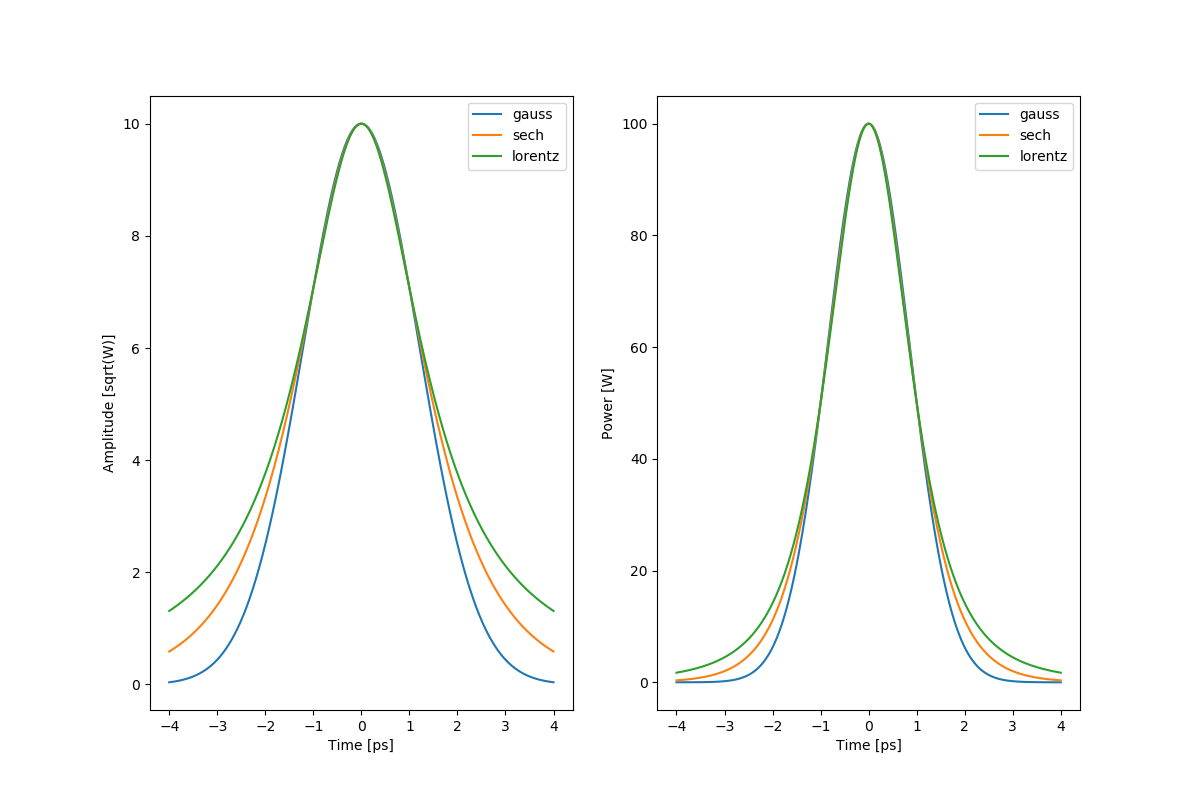
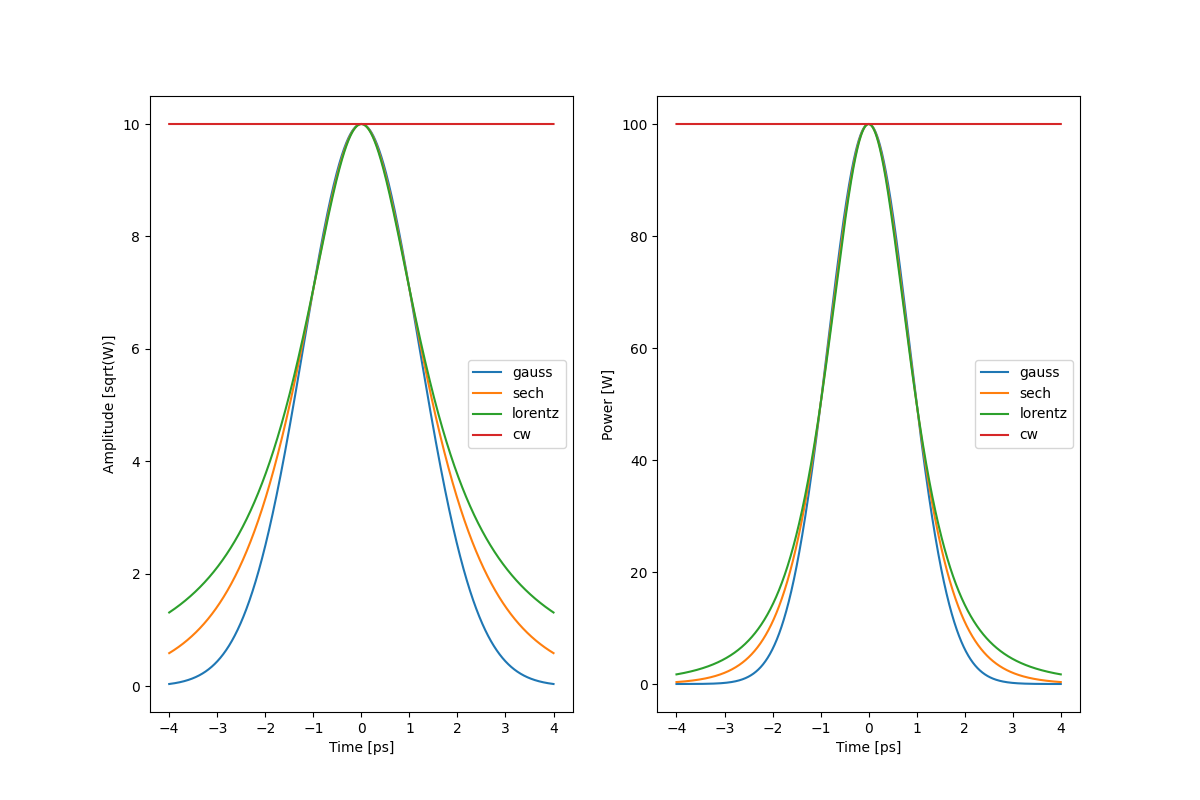
add continious wave envelope

diff --git a/gnlse/envelopes.py b/gnlse/envelopes.py
@@ -111,3 +111,42 @@ class LorentzianEnvelope(Envelope):
         """
         m = 2 * np.sqrt(np.sqrt(2) - 1)
         return np.sqrt(self.Pmax) / (1 + (m * T / self.FWHM)**2)
+
+
+class CWEnvelope(Envelope):
+    """Amplitude envelope of continious wave
+    with or without some temporal noise.
+
+    Attributes
+    ----------
+    Pmax : float
+        Peak power [W].
+    Pn : float, optional
+        Peak power for noise [W].
+    """
+
+    def __init__(self, Pmax, Pn=0):
+        self.name = 'Continious Wave'
+        self.Pmax = Pmax
+        self.Pn = Pn
+
+    def A(self, T):
+        """
+
+        Parameters
+        ----------
+        T : ndarray, (n, )
+            Time vector.
+
+        Returns
+        -------
+        ndarray, (n, )
+            Amplitude envelope of continious wave in time.
+        """
+        cw = np.fft.ifft(np.sqrt(self.Pmax) * np.ones(np.size(T)))
+        noise = 0
+        if self.Pn:
+            noise = np.sqrt(self.Pn
+                            ) * np.exp(
+                1j * 2 * np.pi * np.random.rand(np.size(T)))
+        return np.fft.fft(cw + noise)

diff --git a/examples/plot_input_pulse.py b/examples/plot_input_pulse.py
@@ -7,10 +7,10 @@ hyperbolic secant, gaussian and lorentzian.
 
 import numpy as np
 import matplotlib.pyplot as plt
+
 import gnlse
 
 if __name__ == '__main__':
-
     # time full with half maximum of impulse
     FWHM = 2
     # Time grid [ps]
@@ -24,12 +24,15 @@ if __name__ == '__main__':
     A2 = gnlse.SechEnvelope(Pmax, FWHM).A(T)
     # Amplitude envelope of lorentzian impulse
     A3 = gnlse.LorentzianEnvelope(Pmax, FWHM).A(T)
+    # Amplitude envelope of continious wave
+    A4 = gnlse.CWEnvelope(Pmax).A(T)
 
     plt.figure(figsize=(12, 8))
     plt.subplot(1, 2, 1)
     plt.plot(T, A1, label='gauss')
     plt.plot(T, A2, label='sech')
     plt.plot(T, A3, label='lorentz')
+    plt.plot(T, A4, label='cw')
     plt.xlabel("Time [ps]")
     plt.ylabel("Amplitude [sqrt(W)]")
     plt.legend()
@@ -38,6 +41,7 @@ if __name__ == '__main__':
     plt.plot(T, A1**2, label='gauss')
     plt.plot(T, A2**2, label='sech')
     plt.plot(T, A3**2, label='lorentz')
+    plt.plot(T, A4**2, label='cw')
     plt.xlabel("Time [ps]")
     plt.ylabel("Power [W]")
     plt.legend()

diff --git a/gnlse/__init__.py b/gnlse/__init__.py
@@ -1,7 +1,7 @@
 from gnlse.dispersion import (DispersionFiberFromTaylor,
                               DispersionFiberFromInterpolation)
 from gnlse.envelopes import (SechEnvelope, GaussianEnvelope,
-                             LorentzianEnvelope)
+                             LorentzianEnvelope, CWEnvelope)
 from gnlse.gnlse import GNLSESetup, Solution, GNLSE
 from gnlse.import_export import read_mat, write_mat
 from gnlse.nonlinearity import NonlinearityFromEffectiveArea
@@ -16,5 +16,5 @@ __all__ = [
     'GNLSE', 'Solution', 'read_mat', 'write_mat', 'raman_blowwood',
     'raman_holltrell', 'raman_linagrawal', 'plot_delay_vs_distance',
     'plot_wavelength_vs_distance', 'quick_plot',
-    'NonlinearityFromEffectiveArea'
+    'NonlinearityFromEffectiveArea', 'CWEnvelope'
 ]

diff --git a/docs/envelopes.rst b/docs/envelopes.rst
@@ -6,7 +6,7 @@ Impulse envelopes
 In physics, the envelope of an oscillating signal is a smooth curve
 outlining its extremes. The given envelope function is a function of time of
 input impulse. The below figure illustrates a modulated waves varying between
-an upper and a lower envelope of three types of optical signal.
+an upper and a lower envelope of four types of optical signal.
 
 .. image:: _static/input_pulse.png
    :alt: example_input_impulse 
@@ -14,3 +14,4 @@ an upper and a lower envelope of three types of optical signal.
 .. autoclass:: gnlse.SechEnvelope
 .. autoclass:: gnlse.GaussianEnvelope
 .. autoclass:: gnlse.LorentzianEnvelope
+.. autoclass:: gnlse.CWEnvelope
